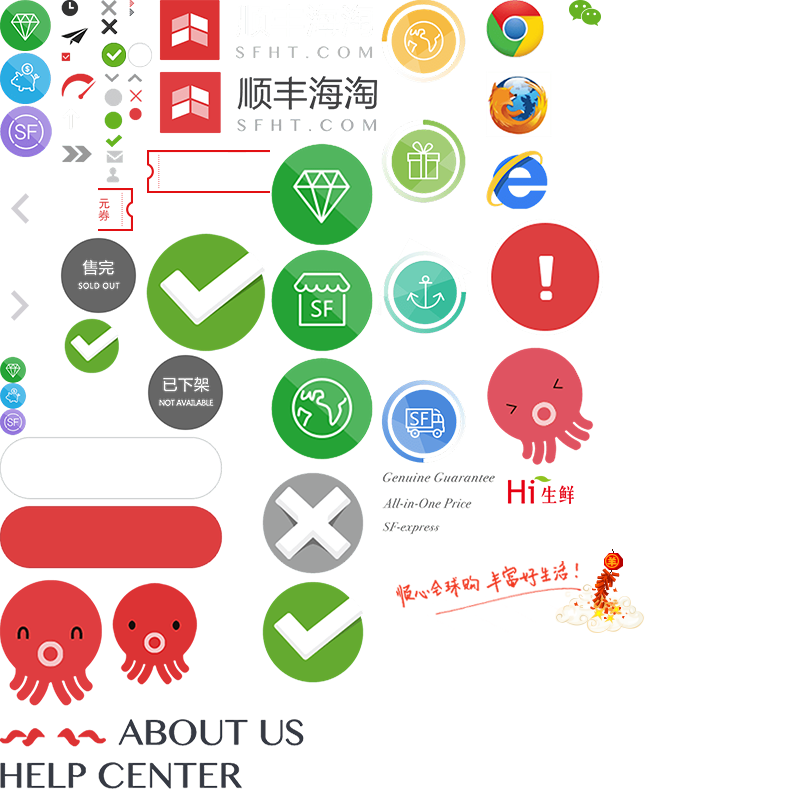
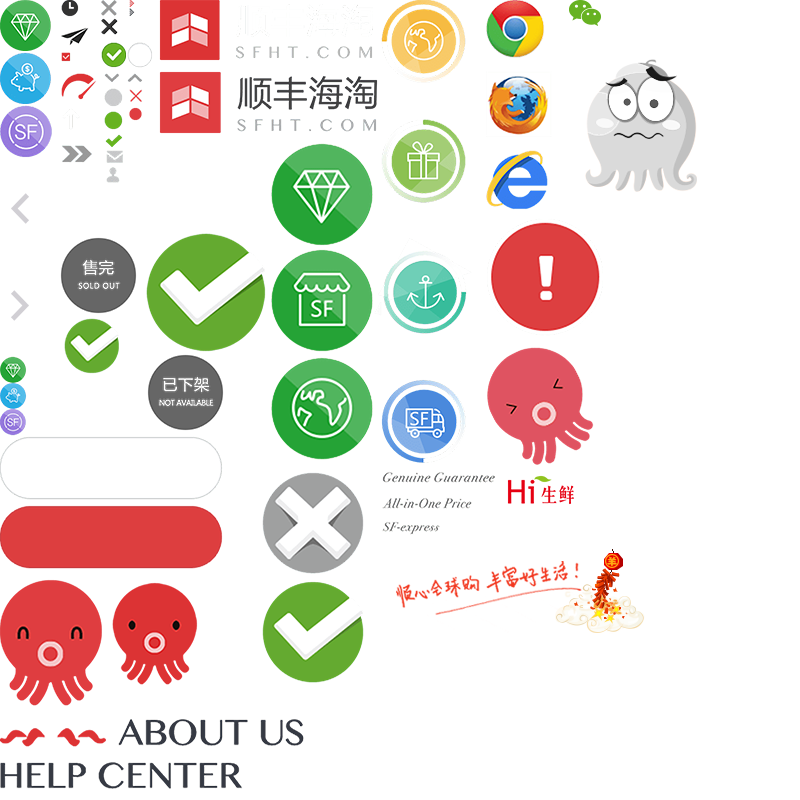
1、错误提示风格变化——红色提示文字#DC3334
2、订单支付 个人中心等页面—蓝色底框改为白底

3、订单支付成功页面优化—见设计稿

4、登录注册加微信登录入口—见设计稿

5、订单详情统一字体大小——用户地址信息字号统一为14px

6、无订单状态—订单搜索无结果-无优惠券 缺省页+小章鱼

7、小章鱼loading动态效果

8、404页面重新设计+小章鱼

Changed region(s): [[0.7188, 0.0625, 0.875, 0.25], [0.125, 0.1875, 0.2188, 0.2812], [0.2812, 0.1875, 0.3125, 0.2188]]

diff --git a/app/html/404.html b/app/html/404.html
@@ -8,9 +8,127 @@
 <link href="../css/404.css" rel="stylesheet" type="text/css" />
 </head>
 <body>
-  <div class="pagenofind">
-    <a href="">返回上一页</a><a href="http://www.sfht.com/index.html">首页</a>
+	<!--头部-->
+  <div class="ph">
+    <div class="nav">
+      <div class="pm clearfix">
+
+        <ul class="nav-c1 fl">
+          <li class="li1"><a href="">顺丰海淘</a></li>
+          <li class="li1"><a href="">限时特卖</a></li>
+          <li class="li1"><a href="">急速海淘</a></li>
+        </ul>
+        <ul class="nav-c2 fr">
+          <li class="li1">
+            <a href="">账户<span class="icon icon16"></span></a>
+            <ul>
+              <li class="li2"><a href="">个人中心</a></li>
+              <li class="li2"><a href="">退出</a></li>
+            </ul>
+          </li>
+          <li class="li1"><a href="">我的订单</a></li>
+        </ul>
+
+      </div>
+    </div>
+
+    <div class="header">
+      <div class="pm clearfix">
+        <div class="header-c1 fl">
+          <a href="#" class="icon icon10">顺丰海淘</a>
+          <span class="icon icon11"></span>
+        </div>
+        <ul class="header-c2 fr">
+          <li>
+            <span class="icon icon1 fl"></span>
+            <h2>全站真品</h2>
+            <p><span class="icon icon17">Quality Lifestyle</span></p>
+          </li>
+          <li>
+            <span class="icon icon2 fl"></span>
+            <h2>含税一口价</h2>
+            <p><span class="icon icon18">Fixed Prices For All</span></p>
+          </li>
+          <li>
+            <span class="icon icon3 fl"></span>
+            <h2>物流全透明</h2>
+            <p><span class="icon icon19">Easy One-stop Shopping</span></p>
+          </li>
+        </ul>
+      </div>
+    </div>
   </div>
+  <!--头部-->
+  <div class="pagenofind pm">
+    <a href="">< 返回上一级页面 </a><a href="http://www.sfht.com/index.html">返回首页 ></a>
+  </div>
+  <!--尾部-->
+  <div class="pf">
+    <!--回到顶部-->
+    <a href="#" class="btn btn-top"><span class="icon icon7"></span></a>
+    <!--回到顶部-->
+    <div class="footer1">
+      <div class="pm">
+        <ul class="clearfix">
+          <li>
+            <span class="icon icon12"></span>
+            <h2>海外商家发货</h2>
+            <span class="icon icon8"></span>
+          </li>
+          <li>
+            <span class="icon icon13"></span>
+            <h2>顺丰海外收件</h2>
+            <span class="icon icon8"></span>
+          </li>
+          <li>
+            <span class="icon icon14"></span>
+            <h2>中国海关清关</h2>
+            <span class="icon icon8"></span>
+          </li>
+
+          <li>
+            <span class="icon icon15"></span>
+            <h2>顺丰国内派送</h2>
+          </li>
+        </ul>
+      </div>
+    </div>
+
+    <div class="footer2">
+      <div class="pm">
+        <div class="footer2-c1 fl">
+          <span class="icon icon9"></span>
+        </div>
+        <div class="footer2-c2 fl">
+          <dl>
+            <dt>顺丰海淘</dt>
+            <dd><a href="">关于我们</a></dd>
+            <dd><a href="">法律政策</a></dd>
+            <dd><a href="">联系我们</a></dd>
+          </dl>
+          <dl>
+            <dt>新手指南</dt>
+            <dd><a href="">正品保证</a></dd>
+            <dd><a href="">购物指南</a></dd>
+            <dd><a href="">费用说明</a></dd>
+          </dl>
+          <dl>
+            <dt>帮助中心</dt>
+            <dd><a href="">实名认证</a></dd>
+            <dd><a href="">签收说明</a></dd>
+            <dd><a href="">运输时效</a></dd>
+          </dl>
+        </div>
+        <div class="footer2-c3 fr">
+          <div class="phone">400-123-456123</div>
+          <div class="time">周一至周日 8:00 - 18:00</div>
+        </div>
+      </div>
+
+    </div>
+
+  </div>
+  <!--尾部-->
 </body>
 
 <script type="text/javascript">var cnzz_protocol = (("https:" == document.location.protocol) ? " https://" : " http://");document.write(unescape("%3Cscript src='" + cnzz_protocol + "v1.cnzz.com/z_stat.php%3Fid%3D1253511102%26show%3Dpic1' type='text/javascript'%3E%3C/script%3E"));</script>

diff --git a/app/html/order-pay-success.html b/app/html/order-pay-success.html
@@ -72,18 +72,27 @@
       </div>
       <!--步骤-->
       <!--订单-->
-      <div class="order">
+      <div class="order order-success">
         <div class="order-r3">
-          <span class="icon icon33"></span>
-          <h2>订单支付成功</h2>
-          <h3>感谢您使用顺丰海淘，我们将尽快为您发货！<a href="#">查看订单 ></a></h3>
-          <div class="coupon">
-            <div class="coupon-r1"><strong>恭喜你！</strong>顺丰海淘新年活动，本订单已赠送优惠券：</div>
-            <div class="coupon-r2">
-              <span class="icon icon51">200<i class="icon"></i></span>
+          <!--优惠券，可隐藏-->
+          <div class="order-r3c2 fr">
+            <div class="text-error">恭喜你！顺丰海淘新年活动，本订单已赠送优惠券：</div>
+            <div class="coupon">
+              <div class="coupon-r1">
+                <span>30</span>元
+              </div>
+              <div class="coupon-r2">新年满300元减20元优惠券</div>
             </div>
-            <div class="coupon-r3"><strong>新年满300元减20元优惠券</strong></div>
           </div>
+          <!--优惠券，可隐藏-->
+          <div class="order-r3c1">
+            <span class="icon icon33"></span>
+            <h2>订单支付成功</h2>
+            <h3>感谢您使用顺丰海淘，我们将尽快为您发货！</h3>
+            <a href="#">查看订单 ></a>
+          </div>
+            
+          
         </div>
       </div>
       <!--订单-->

diff --git a/app/css/order.css b/app/css/order.css
@@ -1,9 +1,8 @@
 /*步骤*/
 .step{
 	position: relative;
-	border: 3px solid #c6deee;
 	padding: 30px 0;
-	background: #f3f8fc;
+	background: #fff;
 	margin-top: 56px;
 }
 .step li{
@@ -46,8 +45,7 @@
 }
 /*订单*/
 .order{
-	border: 3px solid #c6deee;
-	background: #f3f8fc;
+	background: #fff;
 	border-radius: 4px;
 	padding: 45px 37px 80px;
 	margin-top: 56px;
@@ -273,6 +271,24 @@
 	margin-top: 24px;
 	margin-bottom: -34px;
 }
+.order-r3c2{
+	border: 1px solid #ccc;
+	text-align: center;
+	padding: 47px 0 73px;
+	width: 404px;
+}
+.order .text-error{
+	padding-left: 143px;
+	padding-top: 13px;
+	font-size: 12px;
+}
+.order-r3c2 .text-error{
+	padding: 0;
+	margin-bottom: 29px;
+}
+.order-r3c1{
+	overflow: hidden;
+}
 .order .btn-send.disable{
 	cursor: pointer;
 }
@@ -303,9 +319,7 @@
 	line-height: 39px;
 }
 
-
-.order .text-error{
-	padding-left: 143px;
-	padding-top: 13px;
-	font-size: 12px;
+.order-success{
+	padding-left: 118px;
+	padding-right: 118px;
 }

diff --git a/app/css/404.css b/app/css/404.css
@@ -1,18 +1,18 @@
 /*404*/
 .pagenofind,
 .pagenofind-goods{
-  padding-top: 911px;
-  height: 289px;
-  background: url(http://img.sfht.com/sfht/img/404.jpg) no-repeat center;
+  background: #fff url(../img/404.png) no-repeat 150px 150px;
   text-align: center;
-  margin-top: -60px;
+  margin-top: 44px;
+  margin-bottom: 74px;
+  padding-top: 405px;
+  padding-bottom: 213px;
 }
 .pagenofind a,
 .pagenofind-goods a{
-  font-size: 30px;
-  color: #fff;
-  margin: 0 37px;
-  text-decoration: underline;
+  font-size: 14px;
+  color: #666666;
+  margin: 0 50px;
 }
 .pagenofind-goods{
   background: url(http://img.sfht.com/sfht/img/404-goods.jpg) no-repeat center;

diff --git a/app/css/coupon.css b/app/css/coupon.css
@@ -82,24 +82,22 @@ p.mycoupon-b{
 }
 
 .coupon{
-	display: block;
+	display: inline-block;
+	width: 216px;
+	padding-left: 64px;
+	height: 119px;
 	background: url(../img/coupon.png) no-repeat;
-	height: 105px;
-	width: 399px;
-	margin: 0 auto;
-	font-size: 14px;
-	padding: 20px 100px;
+	color: #fff;
 	text-align: center;
-}
-.coupon strong{
-	color: #dc3334;
-	font-weight: normal;
+
 }
 .coupon-r1{
-	margin-bottom: 14px;
+	font-size: 36px;
+	padding-top: 5px;
 }
-.coupon-r2{
-	margin-bottom: 12px;
+.coupon-r1 span{
+	font-size: 72px;
+	font-family: Arial;
 }
 
 .coupon2{

diff --git a/app/css/common.css b/app/css/common.css
@@ -439,23 +439,11 @@ img{vertical-align: middle;}
 	text-indent: -999em;
 }
 .icon51{
-	height: 43px;
-	line-height: 43px;
-	background-position: -147px -150px;
-	font-size: 28px;
-	font-family: arial;
-	text-align: right;
-	color: #dc3334;
-	padding-left: 20px;
-	position: relative;
+	width: 112px;
+	height: 133px;
+	background-position: -585px -59px;
 }
-.icon51 i{
-	width: 35px;
-	height: 100%;
-	background-position: -98px -188px;
-	position: absolute;
-	top: 0;
-}
+
 .icon52{
 	width: 32px;
 	height: 26px;

diff --git a/app/html/orderlist-none.html b/app/html/orderlist-none.html
@@ -91,7 +91,9 @@
               操作
             </div>
           </div>
-          <p class="table-none">未找到相关订单记录！<a href="">查看全部订单</a></p>
+          <div class="table-none clearfix">
+            <span class="icon icon51"></span><p>您暂时还没有任何订单！<br /><a href="">立即去下单</p></a>
+          </div>
       </div>
       <!--订单列表-->
 

diff --git a/app/css/orderlist.css b/app/css/orderlist.css
@@ -136,6 +136,17 @@
 .table-none a{
 	color: #939393;
 	font-size: 14px;
-	margin-left: 34px;
+	margin-top: 20px;
+	margin-bottom: 10px;
 	text-decoration: underline;
+	display: inline-block;
+}
+.table-none .icon{
+	margin-right: 30px;
+	vertical-align: bottom;
+}
+.table-none p{
+	display: inline-block;
+	text-align: left;
+	vertical-align: bottom;
 }

diff --git a/app/html/common.html b/app/html/common.html
@@ -104,7 +104,7 @@
       <span class="icon icon48"></span>
       <span class="icon icon49"></span>
       <span class="icon icon50">生鲜</span>
-      <span class="icon icon51">200<i class="icon"></i></span>
+      <span class="icon icon51"></span>
       <span class="icon icon52"></span>
 
 

diff --git a/app/css/orderdetail.css b/app/css/orderdetail.css
@@ -104,7 +104,8 @@
 .info{
 	border:1px solid #dfe2e4;
 	border-radius: 4px;
-	background: #fff
+	background: #fff;
+	font-size: 14px;
 }
 
 .info-r1{
